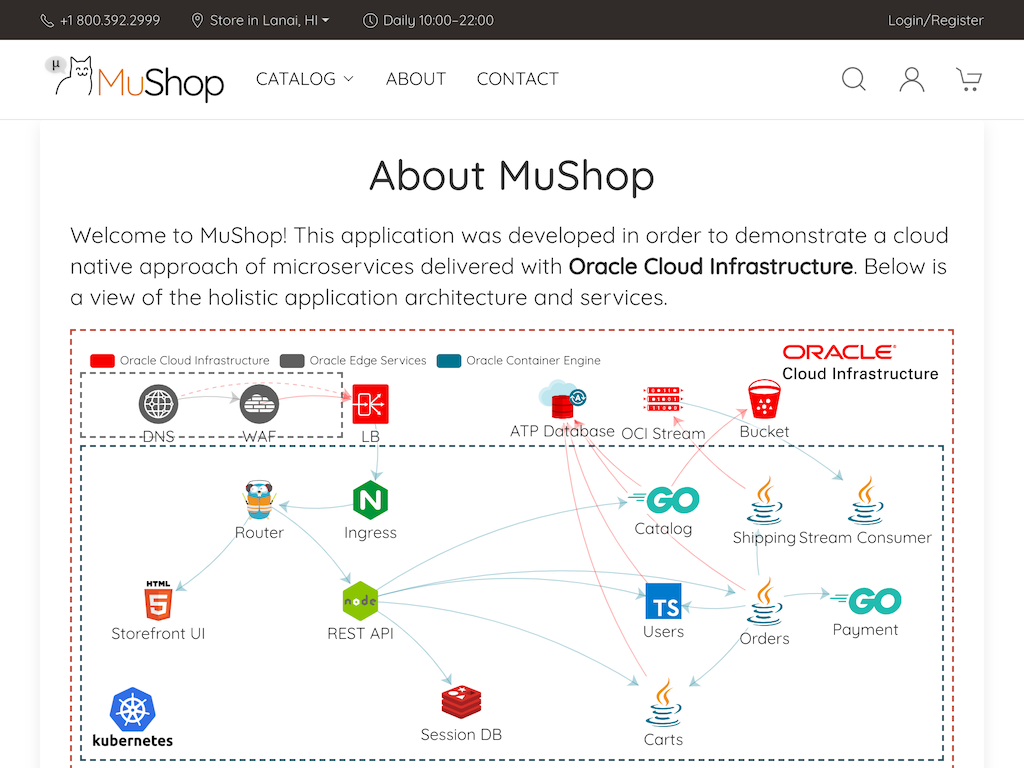
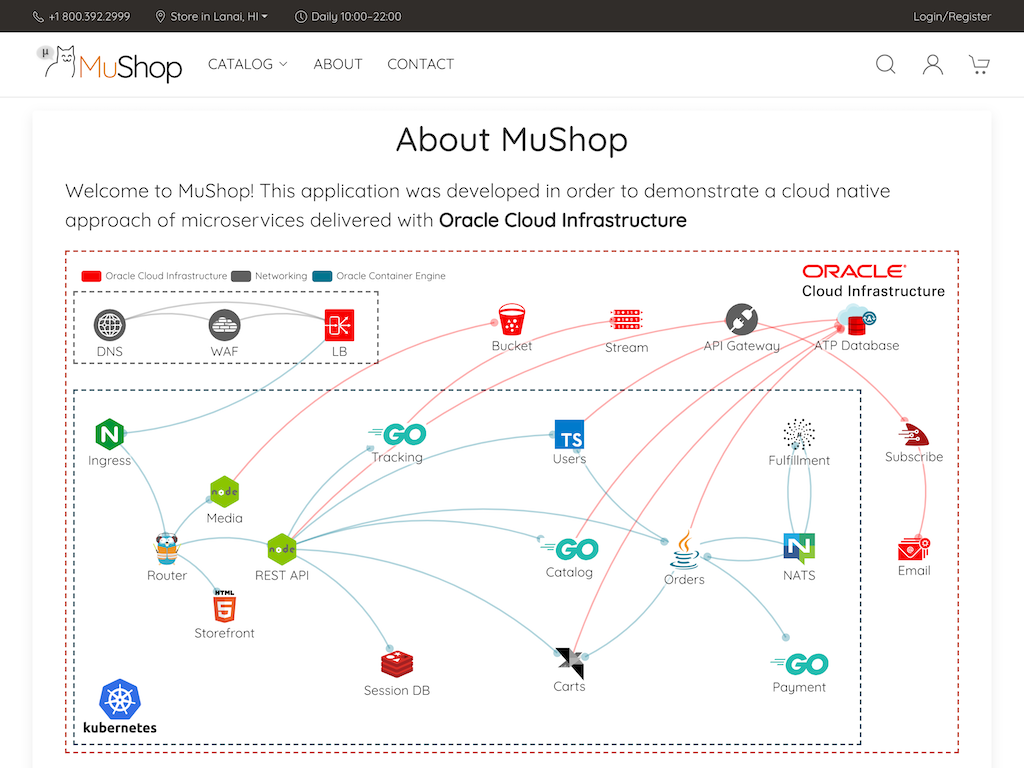
update docs with new diagram

diff --git a/src/docs/source/includes/intro/_services.md b/src/docs/source/includes/intro/_services.md
@@ -30,6 +30,8 @@ In addition to these Cloud Native topics, MuShop demonstrates the use of several
 
 ### MuShop Services
 
+![services](images/mushop.services.png "MuShop Services")
+
 | Service | Technology  | Cloud Services | Description |
 | --- | --- | --- | --- |
 | `src/api` | Node.js   | | Storefront API |
